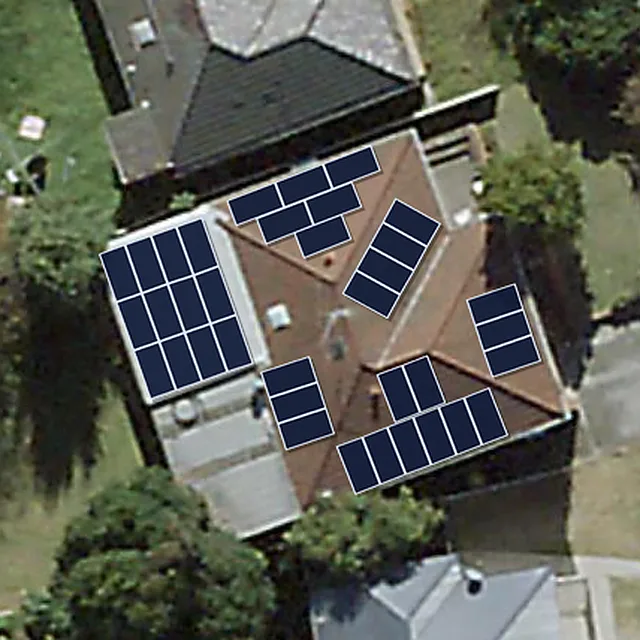
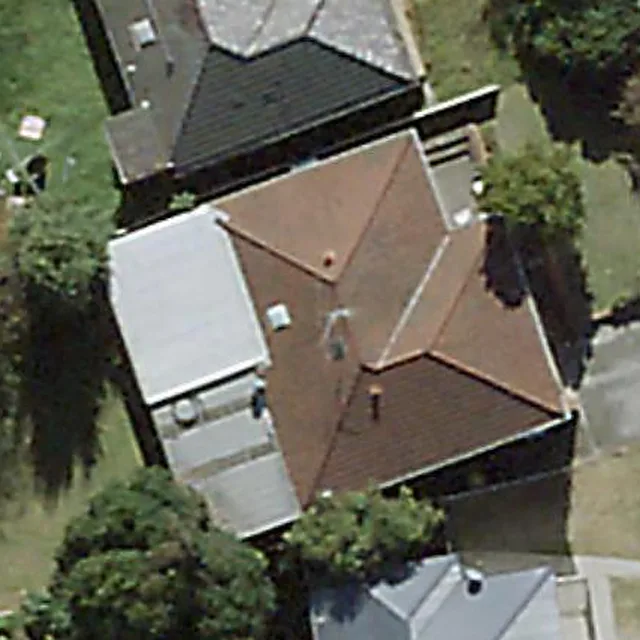
Site Portfolio: plain aerial roof photos (no drawn panels) except Blakehurst
Eight cards now show the NSW aerial photo of the roof without an overlay;
Blakehurst keeps its Platform Designer layout. Footnote says photos can
predate installation.

Claude-Session: https://claude.ai/code/session_014kMAC6gRMpRyCZmjhjfECq

Changed region(s): [[0.1562, 0.2188, 0.8438, 0.7812]]

diff --git a/src/utils/constant.tsx b/src/utils/constant.tsx
@@ -3137,7 +3137,7 @@ export const ABOUT_US_PAGE = {
     subtitle:
       "Real EasyLink systems across Sydney, with the projected savings from each customer's proposal.",
     footnote:
-      "Savings are projections from each customer's proposal (bill savings plus export credits over the system's life), not metered results. Panel layouts are the designed layouts. Aerial imagery © NSW Spatial Services, Department of Customer Service (CC BY 4.0).",
+      "Savings are projections from each customer's proposal (bill savings plus export credits over the system's life), not metered results. Aerial photos show each roof as last photographed, which can be before installation; Blakehurst shows the Platform Designer layout. Aerial imagery © NSW Spatial Services, Department of Customer Service (CC BY 4.0).",
     items: [
       { id: "sans-souci", status: "Installed", client: "George", suburb: "Sans Souci", imageSrc: "/images/about-us/portfolio/sans-souci.webp", systemKw: 17.22, panels: "28 × Canadian Solar 615 W", batteryKwh: 40.3, batteryBrand: "SigEnergy", annualKwh: 25818, annualSavings: 3896, payback: "4 years", lifetimeSavings: 89268 },
       { id: "kyle-bay", status: "Installed", client: "Shariff", suburb: "Kyle Bay", imageSrc: "/images/about-us/portfolio/kyle-bay.webp", systemKw: 21.06, panels: "36 × Trina 585 W", batteryKwh: 24.2, annualKwh: 29726, annualSavings: 2531, payback: "4 years 9 months", lifetimeSavings: 58200 },

diff --git a/src/components/pages/about-us/SitePortfolioCard.tsx b/src/components/pages/about-us/SitePortfolioCard.tsx
@@ -39,7 +39,7 @@ export function SitePortfolioCard({ item }: { item: AboutUsPortfolioItem }) {
           <div className="relative aspect-square w-full bg-[#0b2a5b]">
             <Image
               src={item.imageSrc}
-              alt={`Aerial view of the ${kw(item.systemKw)} EasyLink solar layout on a home in ${item.suburb}`}
+              alt={`Aerial view of a home in ${item.suburb} with a ${kw(item.systemKw)} EasyLink solar system`}
               fill
               sizes="(min-width: 1280px) 393px, (min-width: 768px) 45vw, 92vw"
               className="object-cover"
